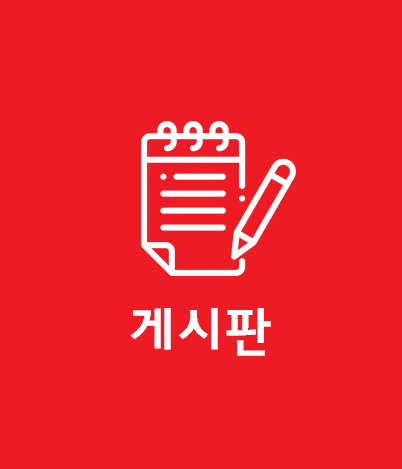
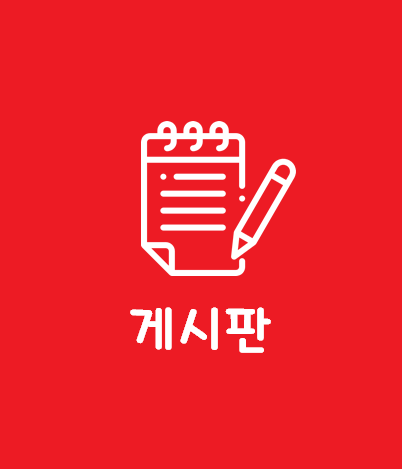
main UI 수정

Changed region(s): [[0.3284, 0.6567, 0.5075, 0.7463], [0.5373, 0.6567, 0.6866, 0.7761]]

diff --git a/src/main/resources/static/resources/css/sb-admin.css b/src/main/resources/static/resources/css/sb-admin.css
@@ -168,11 +168,123 @@ body.fixed-nav {
 /*날씨 관련 css*/
 #weather{
 	font-family: Arial, Helvetica, sans-serif;
-	background-image: url("resources/img/bg.png");
+	background-image: url("https://pbs.twimg.com/media/DjzX7RNX4AA00y-.jpg");
 	color: white;
 }
 
+		input {
+        vertical-align: middle;
+      }
+      input.form-text {
+        border: 1px solid #bcbcbc;
+        height: 28px;
+      }
+      input.img_button1 {
+        background: url(/resources/img/방명록.png) no-repeat;
+        border: none;
+        width: 400px;
+        height: 450px;
+        cursor: pointer;
+      }
+      input.img_button2 {
+        background: url(/resources/img/게시판.png) no-repeat;
+        border: none;
+        width: 400px;
+        height: 450px;
+        cursor: pointer;
+      }
+      input.img_button3 {
+        background: url(/resources/img/팁.png) no-repeat;
+        border: none;
+        width: 400px;
+        height: 450px;
+        cursor: pointer;
+      }
+      input.img_button4 {
+        background: url(/resources/img/퀴즈.png) no-repeat;
+        border: none;
+        width: 400px;
+        height: 450px;
+        cursor: pointer;
+      }
+      
+      /*
+	stylesheet for weather app
+*/
+body {
+	background-image: url("../img/city_vector.jpg");
+	min-height: 100vh;
+	background-size: cover;
+	background-position: center;
+	background-repeat: no-repeat;
+	margin: 0 auto;
+}
+
+/* background color on top of bg image*/
+.hero {
+    position: absolute;
+    min-height: 100vh;
+    min-width: 100vw;
+    top: 0;
+    bottom: 0;
+    background-color: rgba(31, 34, 118, 0.5);
+    z-index: -5;
+}
+
+/* navbar */
+.navbar {
+	background-color: rgb(69, 106, 171);
+}
+
+.navbar a {
+	color: white;
+	font-size: 25px;
+}
+
+/* weather section */
+.weather {
+	border:1px solid white;
+	margin-top: 10rem;
+	background-color: rgba(0, 0, 0, 0.5);
+	border-radius: 20px;
+	color: white;
+}
+
+.weather-head {
+	height: 50%;
+}
+
+#icon-desc {
+	font-size: 5rem;
+	padding-top: 2rem;
+}
+
+.humidity, .wind, .visibility {
+	border-top: 1px solid white;
+	border-bottom: 1px solid white;
+	font-size: 1.5rem;
+
+}
+
+#description {
+	font-size: 2rem;
+}
+
+#temperature {
+	font-size: 7rem;
+}
+
+#icon-thermometer {
+	font-size: 5rem;
+}
+
+#humidity, #wind, #visibility {
+	font-size: 2rem;
+	padding-top: 1rem;
+	padding-bottom: 1rem;
+}
  /* btn */
+
  
 #btn-long {
 	position: relative;
